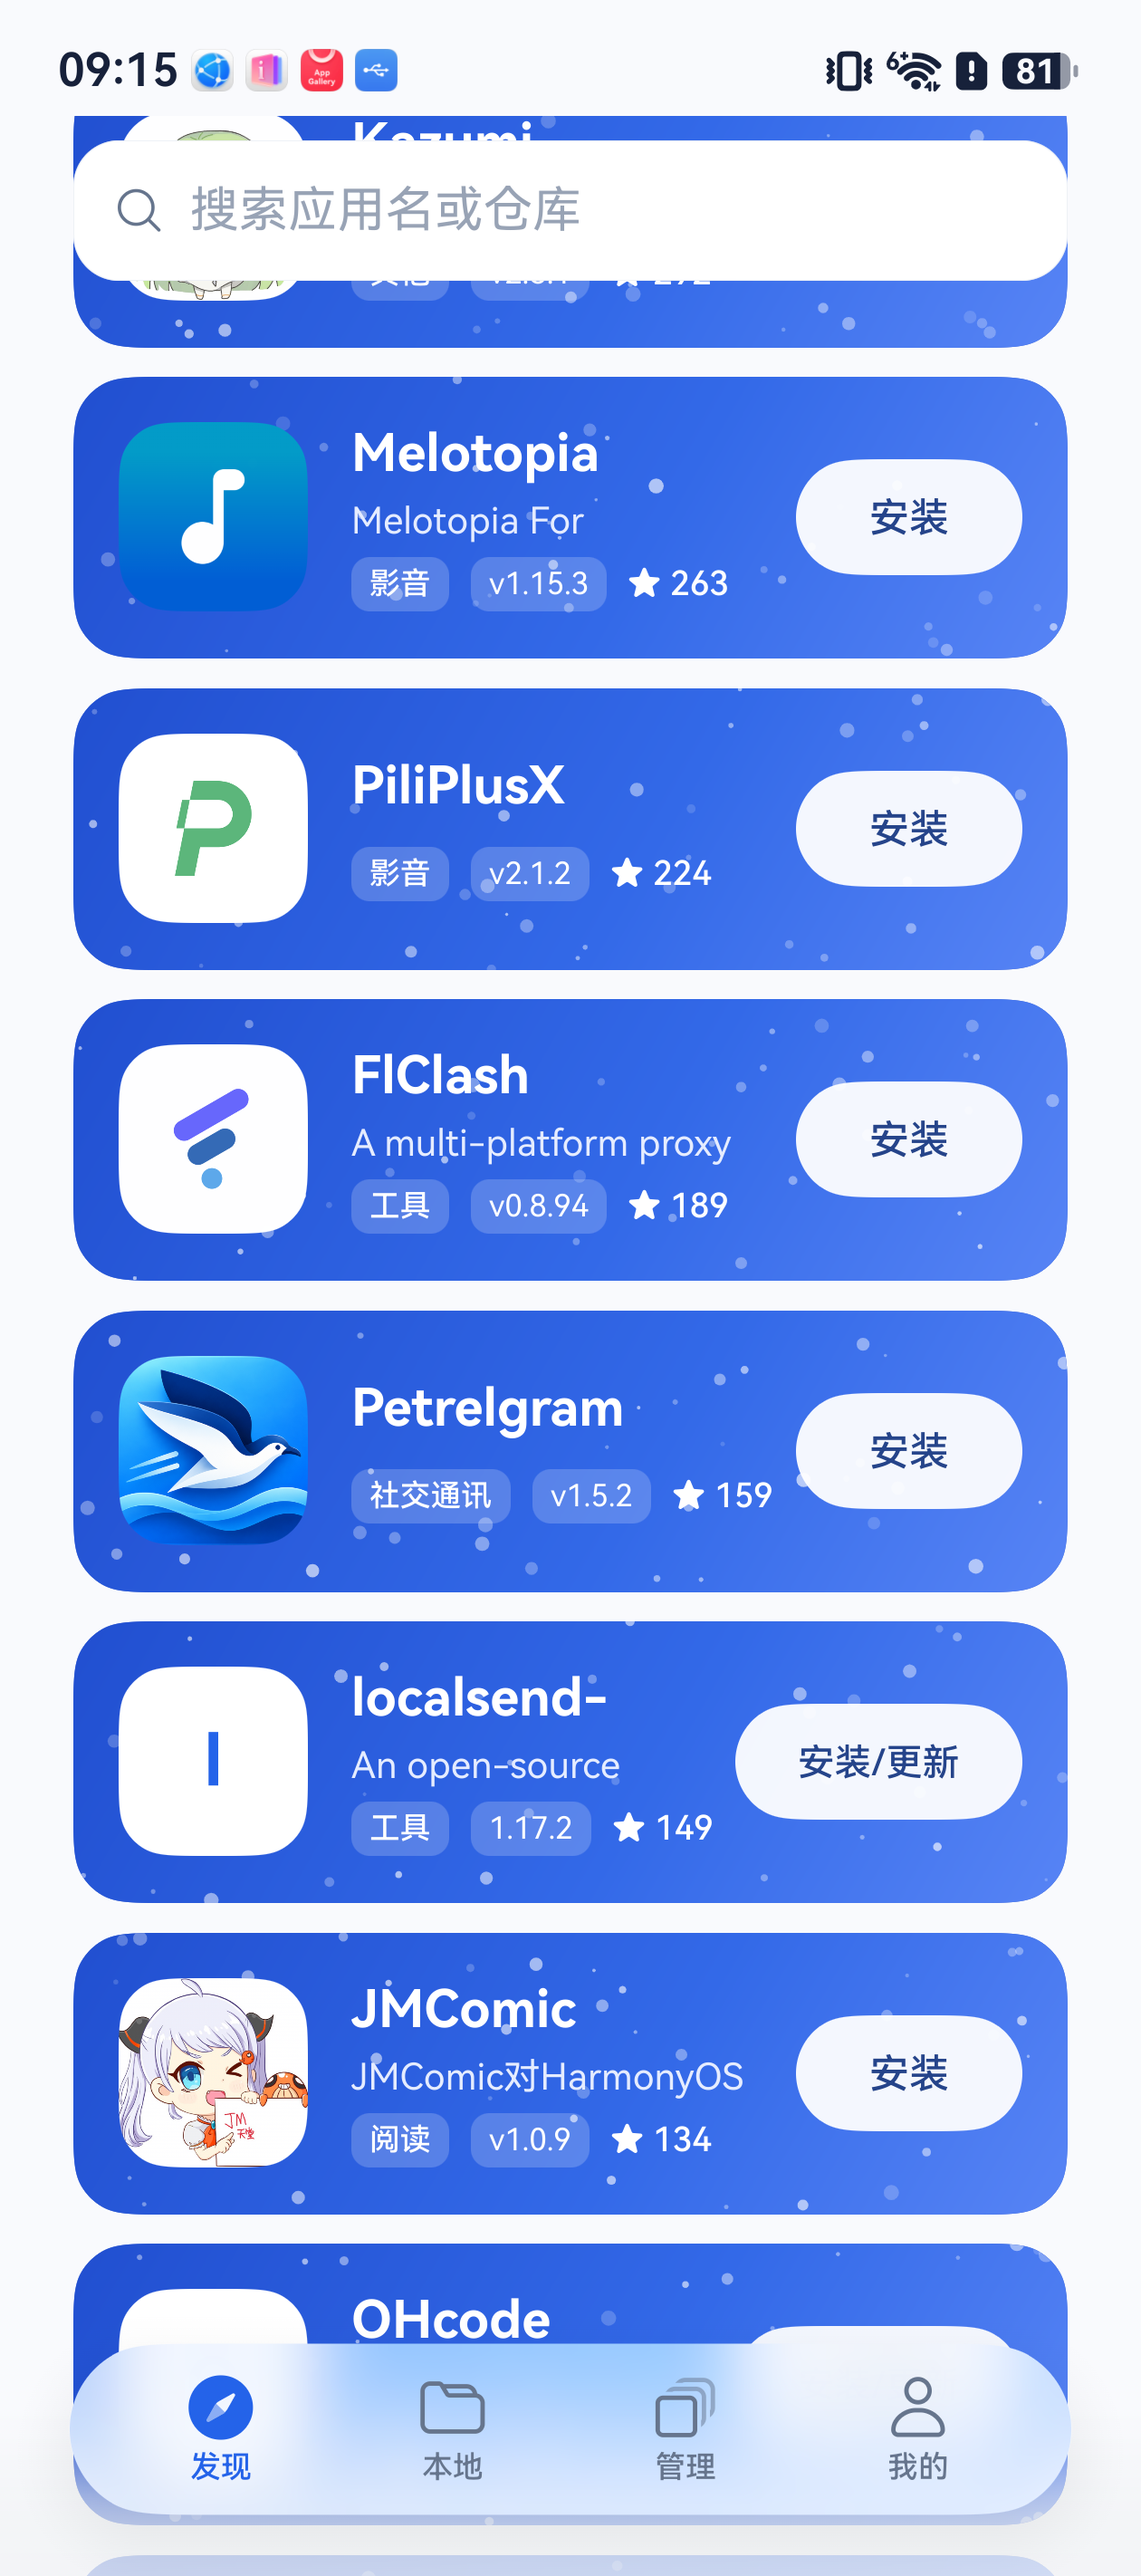
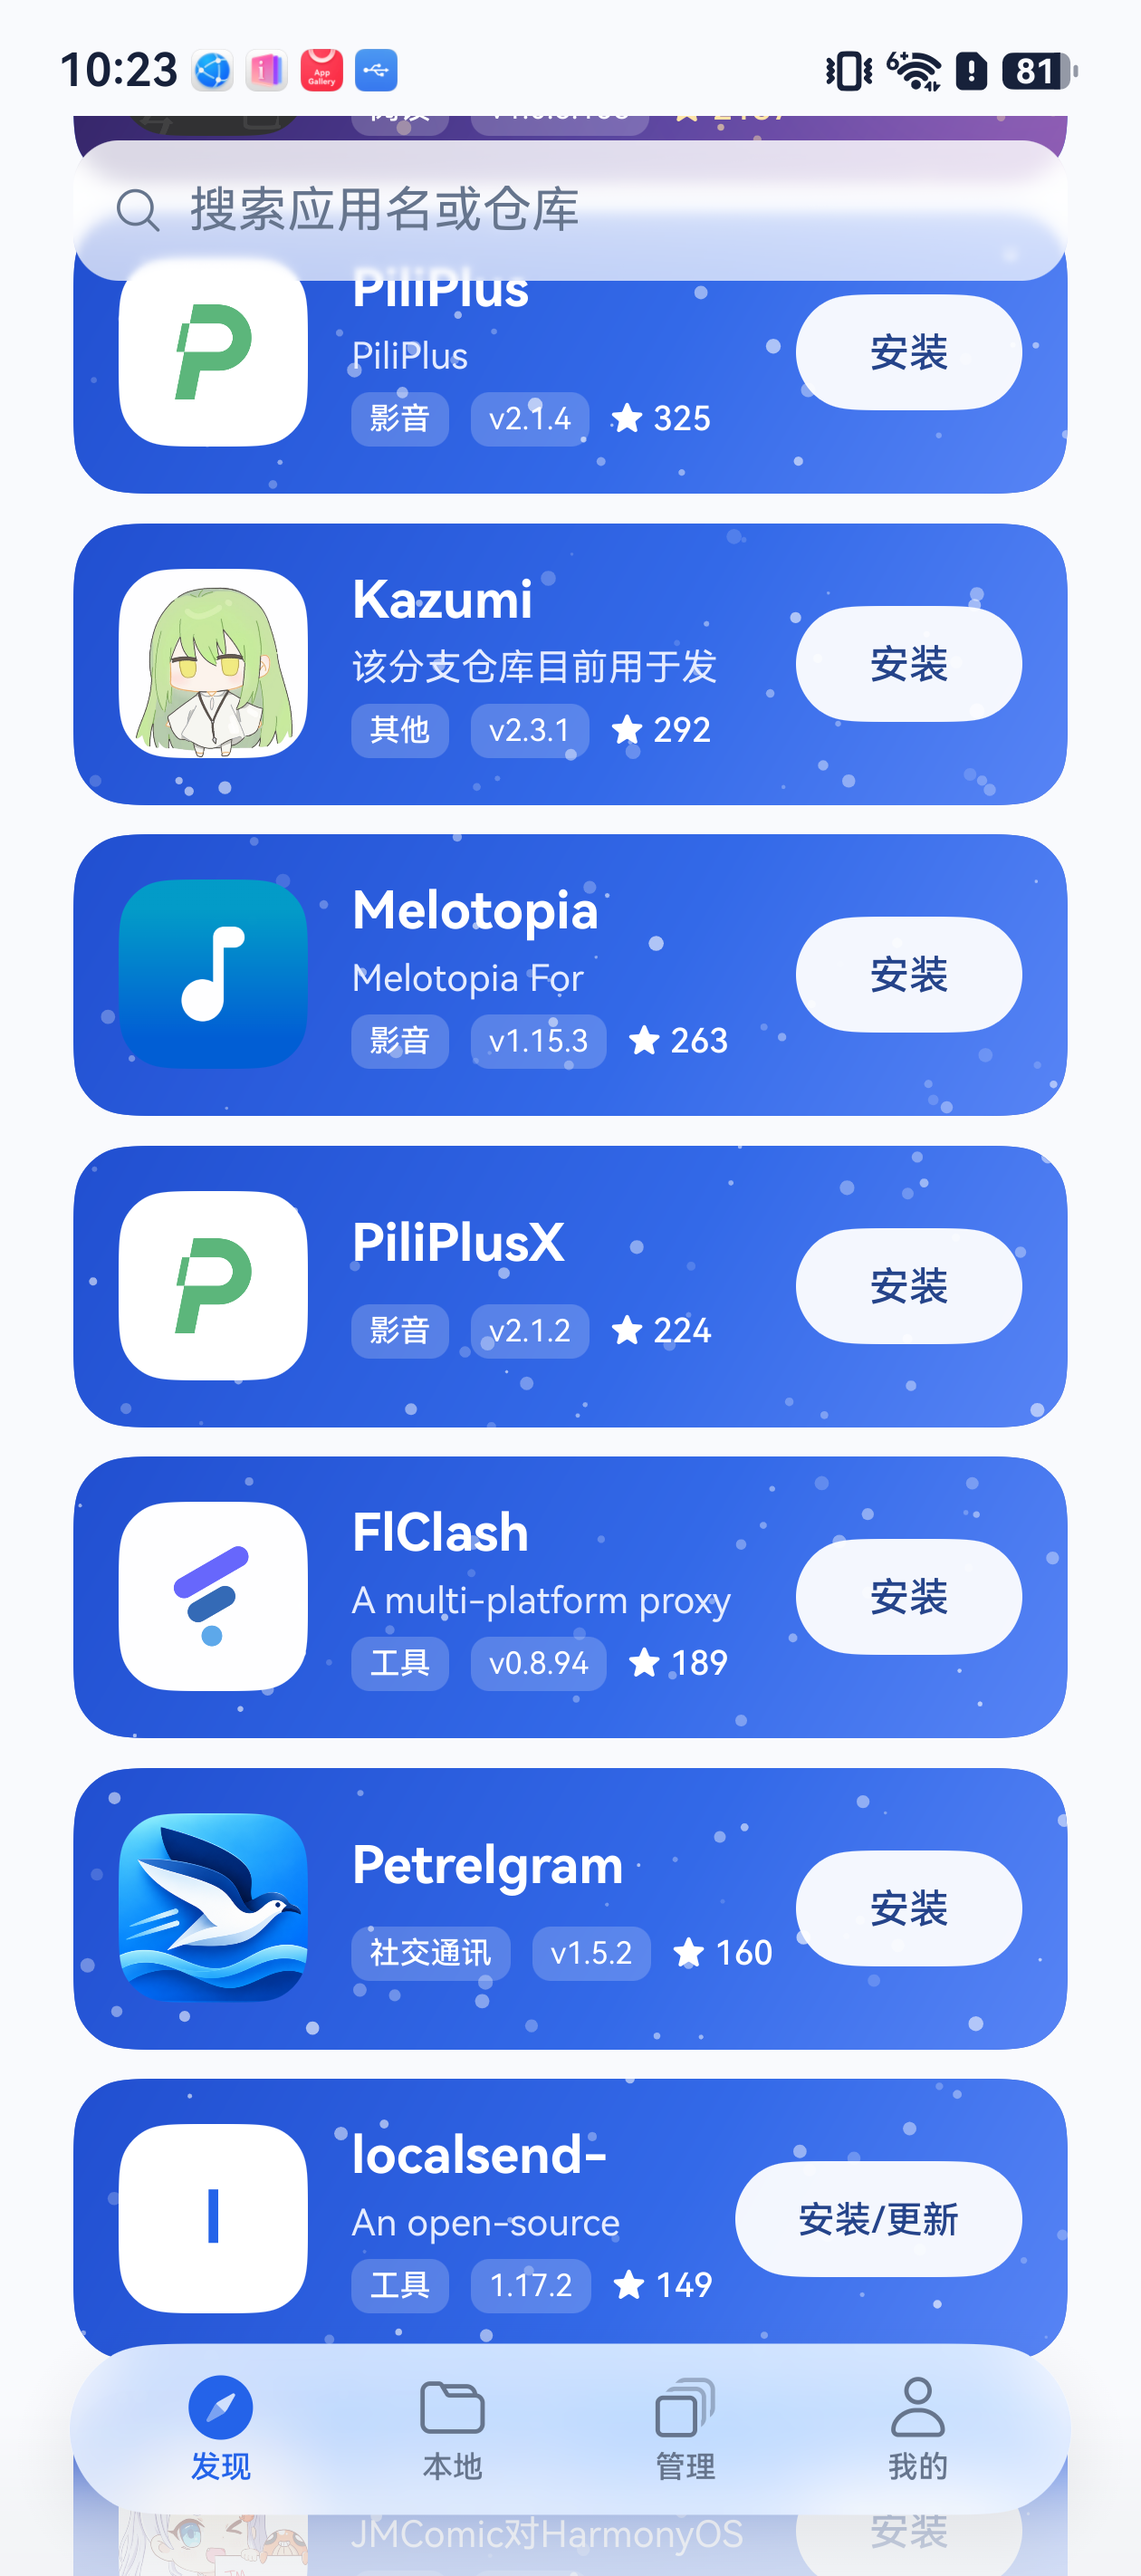
Add immersive search, transparent status bar and automatic signing setup

diff --git a/docs/RELEASE-48-REFRESH-PROGRESS-20261001.md b/docs/RELEASE-48-REFRESH-PROGRESS-20261001.md
@@ -1,6 +1,6 @@
 # 0.4.48 刷新、进度与连接弹窗
 
-正式包名 `com.tonghongxiang.hapstore`，版本名 `0.4.48`，替换构建码 `2026100105`。
+正式包名 `com.tonghongxiang.hapstore`，版本名 `0.4.48`，替换构建码 `2026100106`。
 
 ## 发现页
 
@@ -10,7 +10,13 @@
 - 发现页和管理页进行中的任务共用 48vp 无底色圆环，中央固定两字表示阶段；下载和传包按真实字节填充，签名和系统安装显示旋转圆环，暂停和排队保留静态轨道；星光卡操作按钮改为浅色胶囊，去掉黄色块。真实计数和顺序队列保持不变。
 - 千星和万星卡移除右侧描边圆环，改为柔和渐变光晕，保留分级色调与星点。
 - 普通卡、星光卡的实际图标和占位图标均可点击进入详情，安装按钮保持独立。
-- 大标题随列表滚出，搜索框使用原生列表吸顶。仅保留悬浮搜索框自身底色，移除整条背景、离屏蒙版及渐变遮罩。
+- 大标题随列表滚出，搜索框使用原生列表吸顶。搜索框自身使用 HDS 原生沉浸光感与渐变模糊材质，随深浅色切换；移除整条背景、离屏蒙版及渐变遮罩。
+
+## 透明状态栏
+
+- 窗口启用全屏布局，状态栏透明，页面底色延伸到顶部；系统文字随主题切换对比色。
+- 从窗口读取系统与摄像头避让区，按当前屏幕密度换算安全间距。标题、吸顶搜索和详情返回栏避开状态栏；旋转和窗口变化会重新读取。
+- 安全区读取不依赖尚未加载的 UIContext；新增 3 项生命周期测试覆盖启动、密度与避让变化、窗口暂态和主题切换。
 
 ## 安装进度
 
@@ -37,18 +43,21 @@
 
 ## 验证与范围
 
-- 客户端 207 项测试通过，覆盖后台刷新、重复请求合并、过期结果隔离、真实进度、阶段保留、导航弹窗归属、回填竞态、版本和大小展示、本地预览不建任务、确认后入队、取消清理、文件变化拒绝及本地队列跳过网络下载。
+- 客户端 222 项测试通过，覆盖后台刷新、重复请求合并、过期结果隔离、真实进度、阶段保留、导航弹窗归属、回填竞态、版本和大小展示、本地预览不建任务、确认后入队、取消清理、文件变化拒绝及本地队列跳过网络下载。
 - Rust HDC 9 项测试通过，包含传包字节观察与路径隔离。
 - ArkTS 全量 33／33 构建任务通过，递归无签名检查通过。本产物仅一个 HAP，没有内嵌 HAP。
 - HarmonyOS 6.1 设备 `3BH0224320005595` 使用已有材料，经官方签名及 `verify-app` 后覆盖安装；公开制品仍为无签名包。
 - 实机检查发现页标题滚出和吸顶搜索；2026100105 确认仅搜索框悬浮，无整条背景及黑色阴影，千星卡右侧无描边圆环；点击星光卡 Legado 和普通卡轻启·安装器的图标均进入对应详情。无线调试关闭时，在 Index 启动的任务进入详情后，连接窗口出现在详情层，等待任务保留。两处输入居中，成功端口回填，设置入口可打开系统无线调试页面。系统文件选择器选择无签名 47 HAP 后，显示实际 0.4.47、版本代码、模块与大小，按钮变为「安装」，无自动安装。
 - 2026100105 真机点击 Kazumi 安装，发现与管理同步显示 48vp 圆环及中央「下载」，其他应用安装按钮保持可点击；管理页暂停态显示「暂停」。千星卡右侧描边消失，悬浮搜索框周围没有背景遮罩。
+- 2026100106 经官方 SDK 签名与验签后覆盖安装；浅色和深色实机确认原生光感搜索框、透明状态栏，以及吸顶搜索与详情返回栏的安全间距，主题切换无需重启。启动早于 UIContent 的安全区回调已通过实机及生命周期回归验证。
 - 本轮未完成新的端到端签名安装及传包进度录像：设备已有账号申请目标 Profile 时返回 `cert not exist`，因此没有为页面验证删除或重新申请账号证书。相关传输逻辑通过原生测试及真实构建验证，不能据此声称整个安装流程已实机验收。
 - 实机暂停测试任务已取消清理，系统无线调试恢复开启；未卸载应用或清空账号数据。
 
 ## 页面证据
 
-![悬浮吸顶搜索框](evidence/48-refresh-20261001/sticky-search.png)
+![浅色原生沉浸光感与透明状态栏](evidence/48-refresh-20261001/sticky-search.png)
+![深色原生沉浸光感与透明状态栏](evidence/48-refresh-20261001/immersive-search-dark.png)
+![详情页透明状态栏](evidence/48-refresh-20261001/detail-statusbar-dark.png)
 ![千星卡柔和光晕](evidence/48-refresh-20261001/featured-glow.png)
 ![发现页下载圆环](evidence/48-refresh-20261001/discover-ring.png)
 ![管理页同步下载圆环](evidence/48-refresh-20261001/manage-ring.png)
@@ -64,3 +73,11 @@
 - 现有 Profile 继续检查包名、UDID、证书、权限和有效期，不减少安全校验。
 - 安装确认按 250、500、1000、1500ms 逐步退避，总等待上限仍为 15 秒，等待期间不重复安装。
 - 新增 12 项有状态回归测试，覆盖断连、缓存隔离、登记失效、权限缺失和确认超时；207 项客户端测试全部通过。这里的 250ms 是轮询间隔，并非宣称实机安装只需 250ms。
+
+## 首次安装自动准备证书
+
+- 登录仍只恢复已有材料；用户开始在线、本地或无签名安装器更新时，先复用本机配对证书、备份或可配对的 AGC 证书，确实没有才生成私钥并申请新证书。
+- 安装无需另点「准备签名身份」，最后一个空槽位也可直接使用。槽位已满或暂时无法核实已有身份时，保留明确错误，不自动删除其他证书。
+- 相同账号与策略的并发请求共享结果，手动申请和安装采用不同策略时等待后再核验。申请后下载失败，重试找回已申请证书，不重复申请。取消安装后不再申请 Profile 或继续签名。
+- 新增 12 项生产服务回归测试，覆盖首次申请、随后复用、并发、最后槽位、槽位满、备份网络错误、下载失败重试、在线与本地入口、无签名自更新确认以及取消。当前总计 222 项客户端测试通过。
+- 本轮首次新证书申请使用有状态 SDK 适配器验证；没有在真机账号上新申请证书，不能将页面检查等同于首次申请实机验收。

diff --git a/native/README.md b/native/README.md
@@ -1,12 +1,12 @@
 # 轻启·安装器原生客户端（0.4.48）
 
 0.4.48 的公开制品为正式包名的无签名 HAP，由侧载工具为用户自己的设备签名。
-构建命令为 `python3 tools/build_unsigned_formal.py --output <unsigned.hap> --version-code 2026100105 --version-name 0.4.48`；脚本清理 Hvigor 缓存、触发 Rust 增量检查，并递归检查产物及内嵌包没有签名。
+构建命令为 `python3 tools/build_unsigned_formal.py --output <unsigned.hap> --version-code 2026100106 --version-name 0.4.48`；脚本清理 Hvigor 缓存、触发 Rust 增量检查，并递归检查产物及内嵌包没有签名。
 0.4.48 修复管理页修改分类后的旧卡片缓存，并让发现页的百星、千星、万星卡片各自绘制星点和分级背景。服务端采集优先解析 HAP 启动 Ability 的图标，避免把 AppScope 模板图当成应用图标。构建码 2026093015 让发现页和管理页的安装、更新入口统一入队，管理页按顺序展示并安装，修复全局忙碌状态导致其他卡片按钮无法点击的问题。
 6.1 手机运行相同 ARM 签名库的两层签名及安装验证见 [47 验证记录](../docs/RELEASE-47-INNER-SIGNING-20260930.md)。
 同一构建码的替换包还修复当前版本显示：管理页读取系统当前版本名，在线安装保存 HAP 实际版本名，旧安装历史不再用于展示当前版本。服务端上架检查改为每个已验证账号每分钟三次并复用五分钟内的同仓库结果。验证范围和真机阻断见 [48 修复记录](../docs/RELEASE-48-VERSION-AND-SUBMIT-20260930.md)。
 2026-10-01 的 48 替换构建 `2026100101` 补齐深色导航、选择框及实时主题刷新；首次无安装状态缓存且系统查询不可用时引导识别本机应用。6.1 真机页面检查及 170 项客户端测试结果见 [深色与首轮识别验证](../docs/RELEASE-48-DARK-AND-FIRST-SCAN-20261001.md)。
-最新替换构建 `2026100105` 缩短刷新等待，增加无整条背景的悬浮吸顶搜索、大圆环中央两字显示阶段与真实下载、传包进度，千星卡使用无描边光晕、简化历史版本入口，并让连接弹窗随当前页面展示。详情头部并排显示版本与分类，大小接在上架人之后；标题按钮切换正式版和预览版。端口居中并回填，本地 HAP 先预览，点击安装才入队。减少重复 UDID 与 AGC 设备登记查询，并缩短安装确认轮询的起始间隔。207 项客户端及 9 项 HDC 测试和实机范围见 [刷新与进度验证](../docs/RELEASE-48-REFRESH-PROGRESS-20261001.md)。
+最新替换构建 `2026100106` 缩短刷新等待，增加华为原生沉浸光感的悬浮吸顶搜索、透明状态栏、大圆环中央两字显示阶段与真实下载、传包进度，千星卡使用无描边光晕、简化历史版本入口，并让连接弹窗随当前页面展示。详情头部并排显示版本与分类，大小接在上架人之后；标题按钮切换正式版和预览版。端口居中并回填，本地 HAP 先预览，点击安装才入队。减少重复 UDID 与 AGC 设备登记查询，并缩短安装确认轮询的起始间隔。首次安装自动复用或申请调试证书，无需用户提前获取。222 项客户端及 9 项 HDC 测试和实机范围见 [刷新与进度验证](../docs/RELEASE-48-REFRESH-PROGRESS-20261001.md)。
 
 这是与现有 Flutter 客户端并存的 ArkTS/ArkUI 工程。系统 HdsTabs、商店列表/详情/历史版本、账号登录、上架、评论、已发布应用管理、可恢复下载、本地 HAP 导入、原生签名及设备安装已接入。签名核心和 HDC TCP 主机均以 Rust 源码静态链接进 `libhap_core.so`；HAP 中没有 Flutter、旧 Go signer 或 `libhdc_z.so`。安装任务在 RDB 中保留阶段和校验信息，签名或安装需要设备时才检查无线调试，并可在端口变化后重新连接继续。
 

diff --git a/README.md b/README.md
@@ -16,7 +16,7 @@ Release 里的包已指向正式元数据服务，装上即可用。
 
 2026-10-01 的 48 替换包（构建码 2026100101）补齐深色导航、分类与历史版本选择菜单，以及首次识别本机侧载应用的引导。6.1 真机深浅主题切换及菜单检查通过，客户端 170 项测试通过。详见 [验证记录](docs/RELEASE-48-DARK-AND-FIRST-SCAN-20261001.md)。
 
-最新 48 替换包（构建码 2026100105）让下拉刷新不等待图标及设备扫描，加入无整条背景的悬浮吸顶搜索和大圆环中央两字的阶段进度，千星卡改用柔和光晕；连接弹窗随当前页面展示，端口居中并回填。详情头部并排显示版本和分类，大小接在上架人后面；标题按钮切换正式版和预览版，本地 HAP 先预览再点击安装。减少重复 UDID 和 AGC 设备登记查询，加快安装后的版本确认。207 项客户端与 9 项 HDC 测试通过，实机范围见 [验证记录](docs/RELEASE-48-REFRESH-PROGRESS-20261001.md)。
+最新 48 替换包（构建码 2026100106）让下拉刷新不等待图标及设备扫描，加入原生沉浸光感的悬浮吸顶搜索与透明状态栏和大圆环中央两字的阶段进度，千星卡改用柔和光晕；连接弹窗随当前页面展示，端口居中并回填。详情头部并排显示版本和分类，大小接在上架人后面；标题按钮切换正式版和预览版，本地 HAP 先预览再点击安装。减少重复 UDID 和 AGC 设备登记查询，加快安装后的版本确认；首次安装自动复用或申请证书。222 项客户端与 9 项 HDC 测试通过，实机范围见 [验证记录](docs/RELEASE-48-REFRESH-PROGRESS-20261001.md)。
 
 0.4.47 修复轻启内嵌工作模块的授权及签名匹配，手机端两层重签和安装已通过 6.1 实机验证。已经安装同版本轻启但工作模块导入失败时，可在 47 中本地重新导入轻启 HAP 触发修复。详见 [验证记录](docs/RELEASE-47-INNER-SIGNING-20260930.md)。
 
